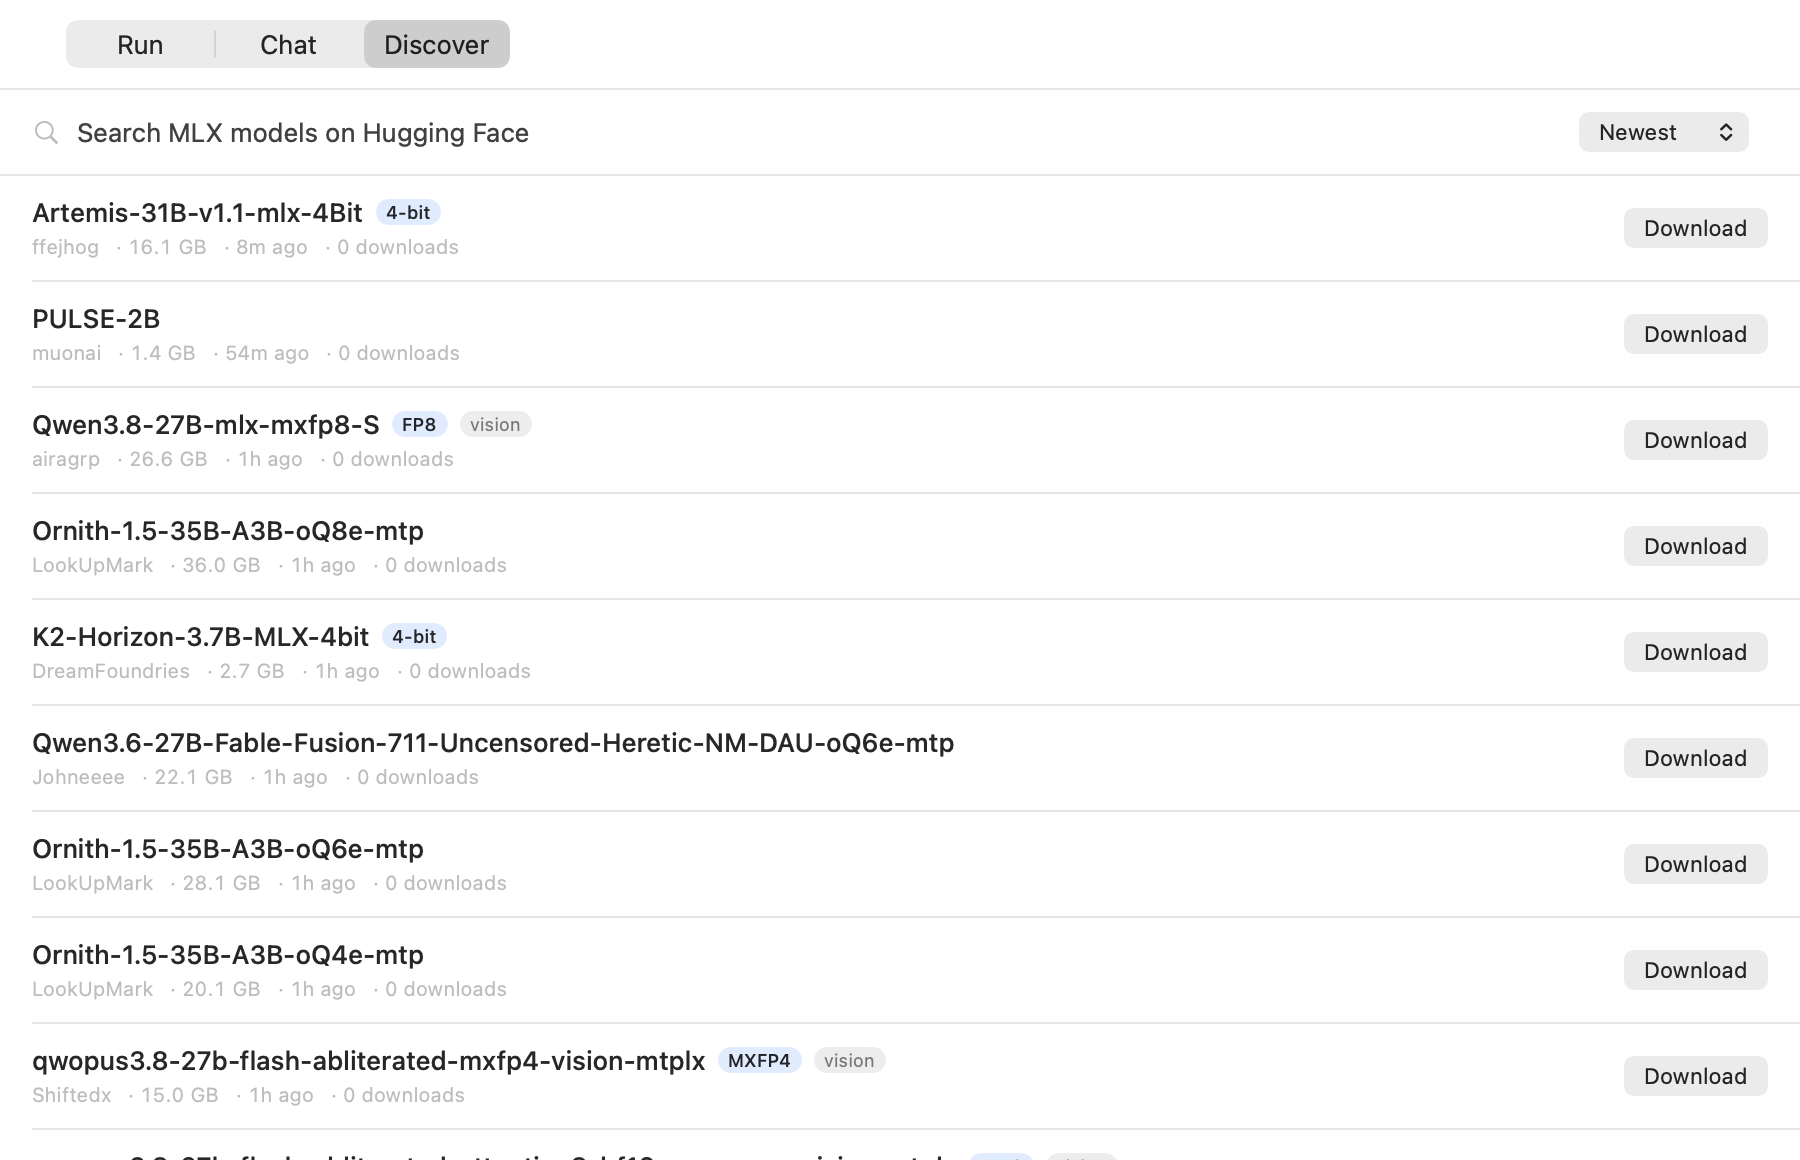
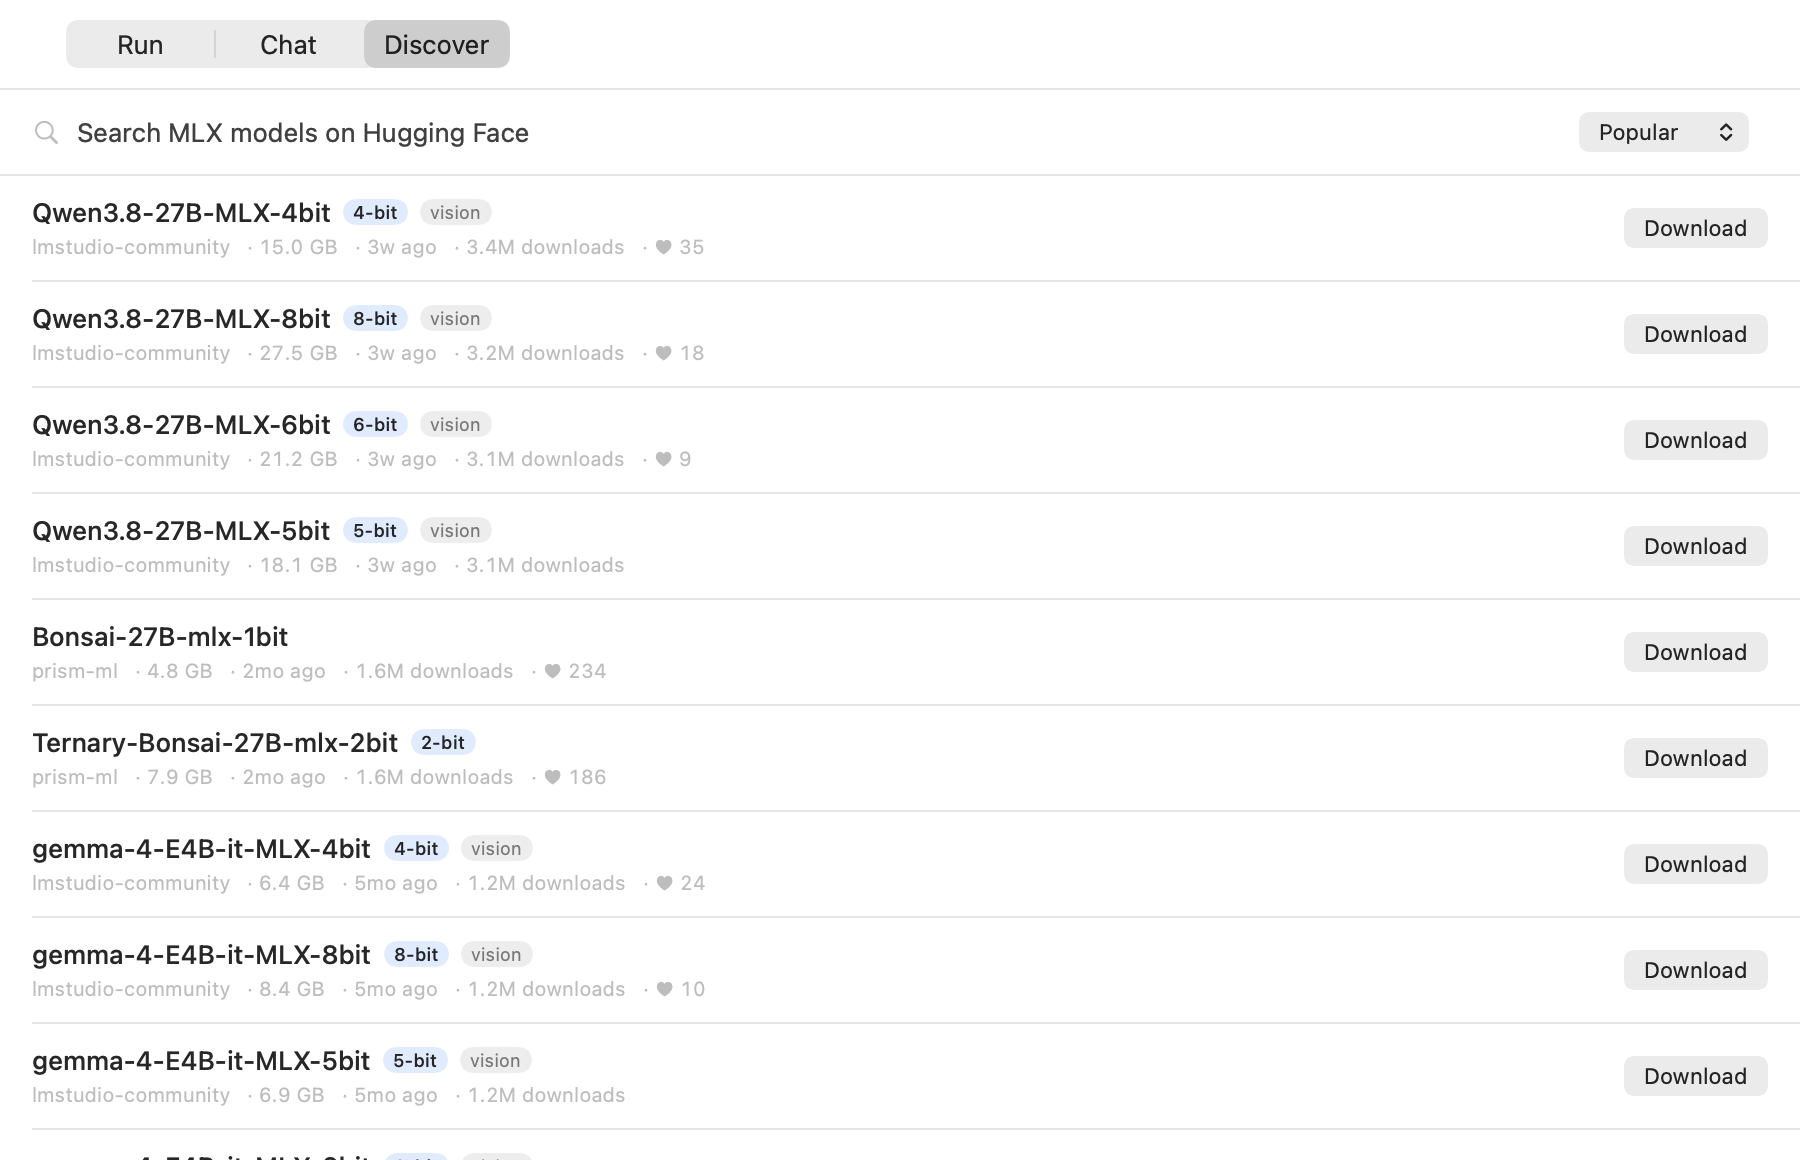
Sort Discover by downloads, and stop printing counts that say nothing
Defaulting the model browser to newest-first meant every row showed
"0 downloads" and no likes, because a repository created today has
neither. The column of zeroes looked broken and, worse, gave nothing to
choose a model on -- the list was full of personal re-quantisations with
no signal to separate them.

Popular is now the default, which puts the models people actually run at
the top: Qwen3.8-27B at 3.4M downloads, Gemma 4 at 1.2M. Newest is still
one click away in the sort menu for anyone watching for fresh conversions.

Download and like counts are shown only when they are above zero, and
likes are shown at all, so a row carries signal or stays quiet rather than
padding itself with noughts.

Claude-Session: https://claude.ai/code/session_01FVqzo7Wg7xHEhB7zjjZ4TK

diff --git a/app/Sources/DynoKit/ModelCatalog.swift b/app/Sources/DynoKit/ModelCatalog.swift
@@ -35,12 +35,15 @@ public enum ModelCatalog {
 
     /// How the hub should order results.
     public enum Sort: String, Sendable, CaseIterable, Identifiable {
+        /// Most downloaded. The default: a freshly created repository has no
+        /// downloads and no likes yet, so ordering by date shows a column of
+        /// zeroes and gives nothing to choose on.
+        case popular
+        case liked
         /// Newest repositories first — what "just released" means on the hub.
         case recent
         /// Recently re-uploaded or fixed.
         case updated
-        case popular
-        case liked
 
         public var id: String { rawValue }
 
@@ -94,13 +97,13 @@ public enum ModelCatalog {
     }
 
     public static func featured(
-        sort: Sort = .recent, limit: Int = 50
+        sort: Sort = .popular, limit: Int = 50
     ) async throws -> [CatalogModel] {
         try await fetch(query: nil, sort: sort, limit: limit)
     }
 
     public static func search(
-        _ query: String, sort: Sort = .recent, limit: Int = 50
+        _ query: String, sort: Sort = .popular, limit: Int = 50
     ) async throws -> [CatalogModel] {
         let trimmed = query.trimmingCharacters(in: .whitespacesAndNewlines)
         return try await fetch(query: trimmed.isEmpty ? nil : trimmed, sort: sort, limit: limit)

diff --git a/app/Sources/Dyno/Views/DiscoverView.swift b/app/Sources/Dyno/Views/DiscoverView.swift
@@ -136,7 +136,14 @@ private struct CatalogRow: View {
                     if let released = candidate.createdAt {
                         Text("· \(Self.relative(released))")
                     }
-                    Text("· \(formatted(candidate.downloads)) downloads")
+                    // A brand-new repository has no downloads and no likes;
+                    // printing "0 downloads" on every row is noise, not data.
+                    if candidate.downloads > 0 {
+                        Text("· \(formatted(candidate.downloads)) downloads")
+                    }
+                    if candidate.likes > 0 {
+                        Text("· ♥ \(candidate.likes)")
+                    }
                 }
                 .font(.system(size: 10))
                 .foregroundStyle(.tertiary)

diff --git a/app/Sources/Dyno/MonitorModel.swift b/app/Sources/Dyno/MonitorModel.swift
@@ -36,7 +36,7 @@ final class MonitorModel {
     /// Set to ask the window to switch tabs; the window clears it once handled.
     /// Chat needs to send you to Run when nothing is loaded.
     var requestedTab: MainWindow.Tab?
-    var catalogSort: ModelCatalog.Sort = .recent {
+    var catalogSort: ModelCatalog.Sort = .popular {
         didSet { runSearch(query: searchText) }
     }
 
